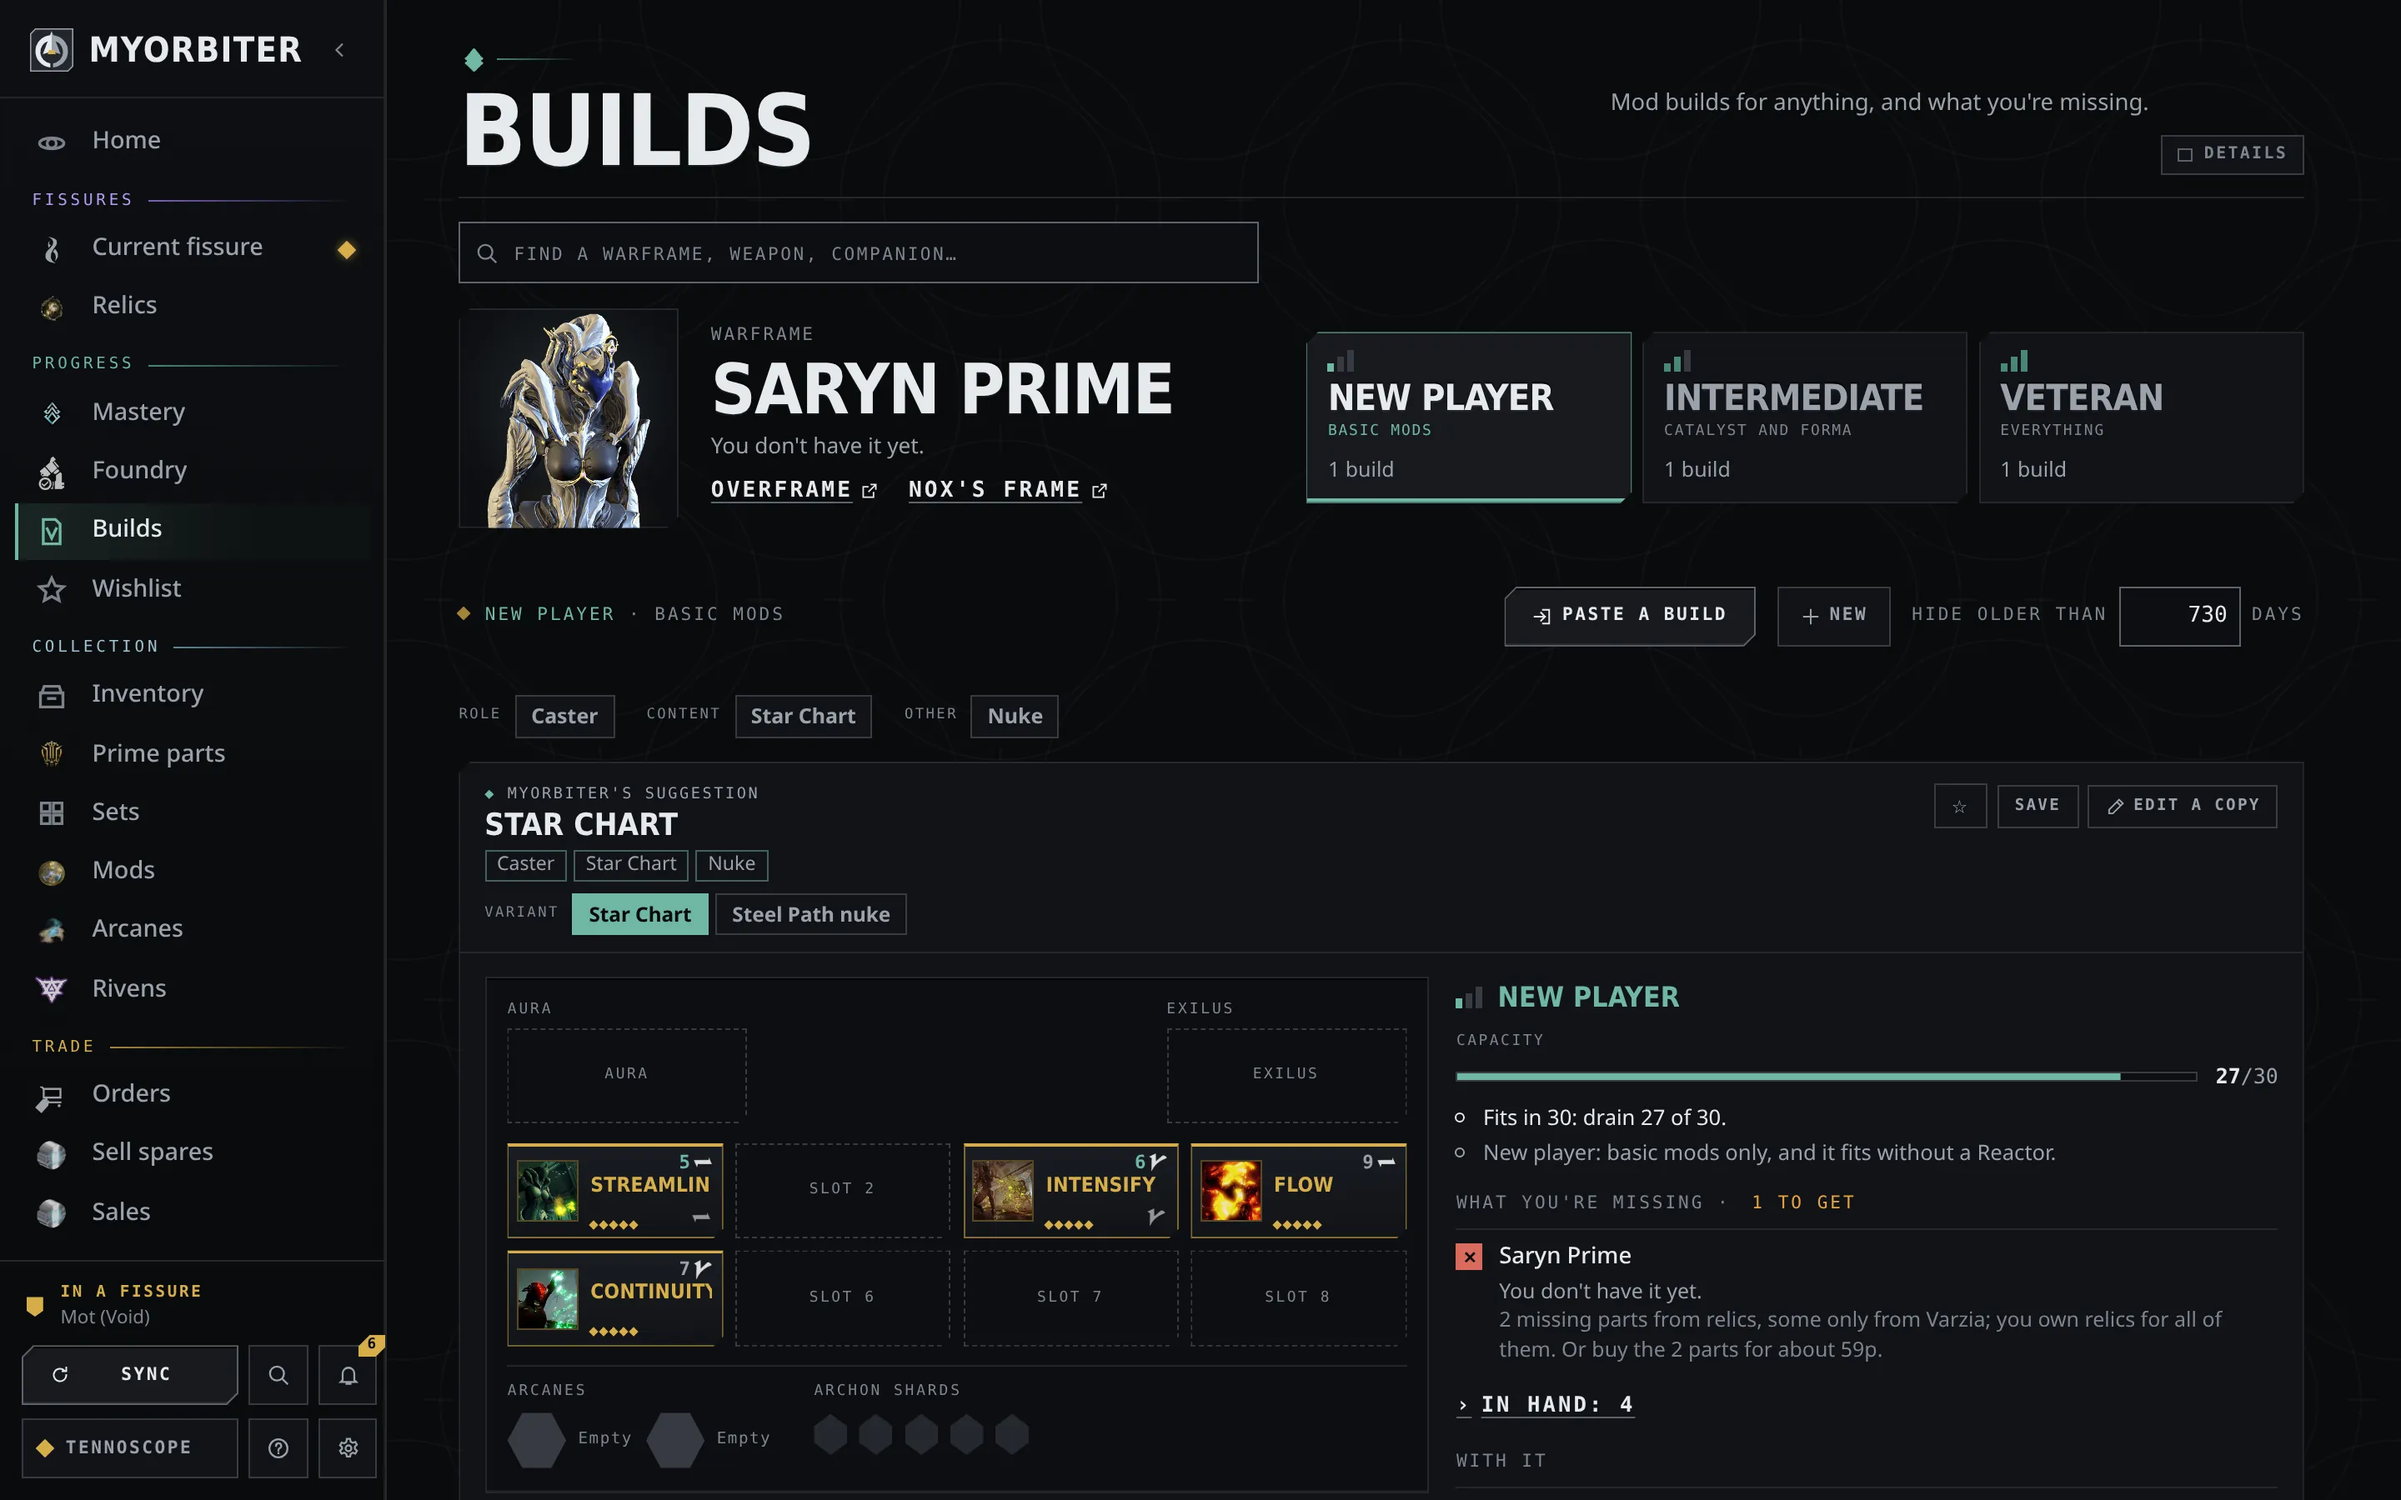
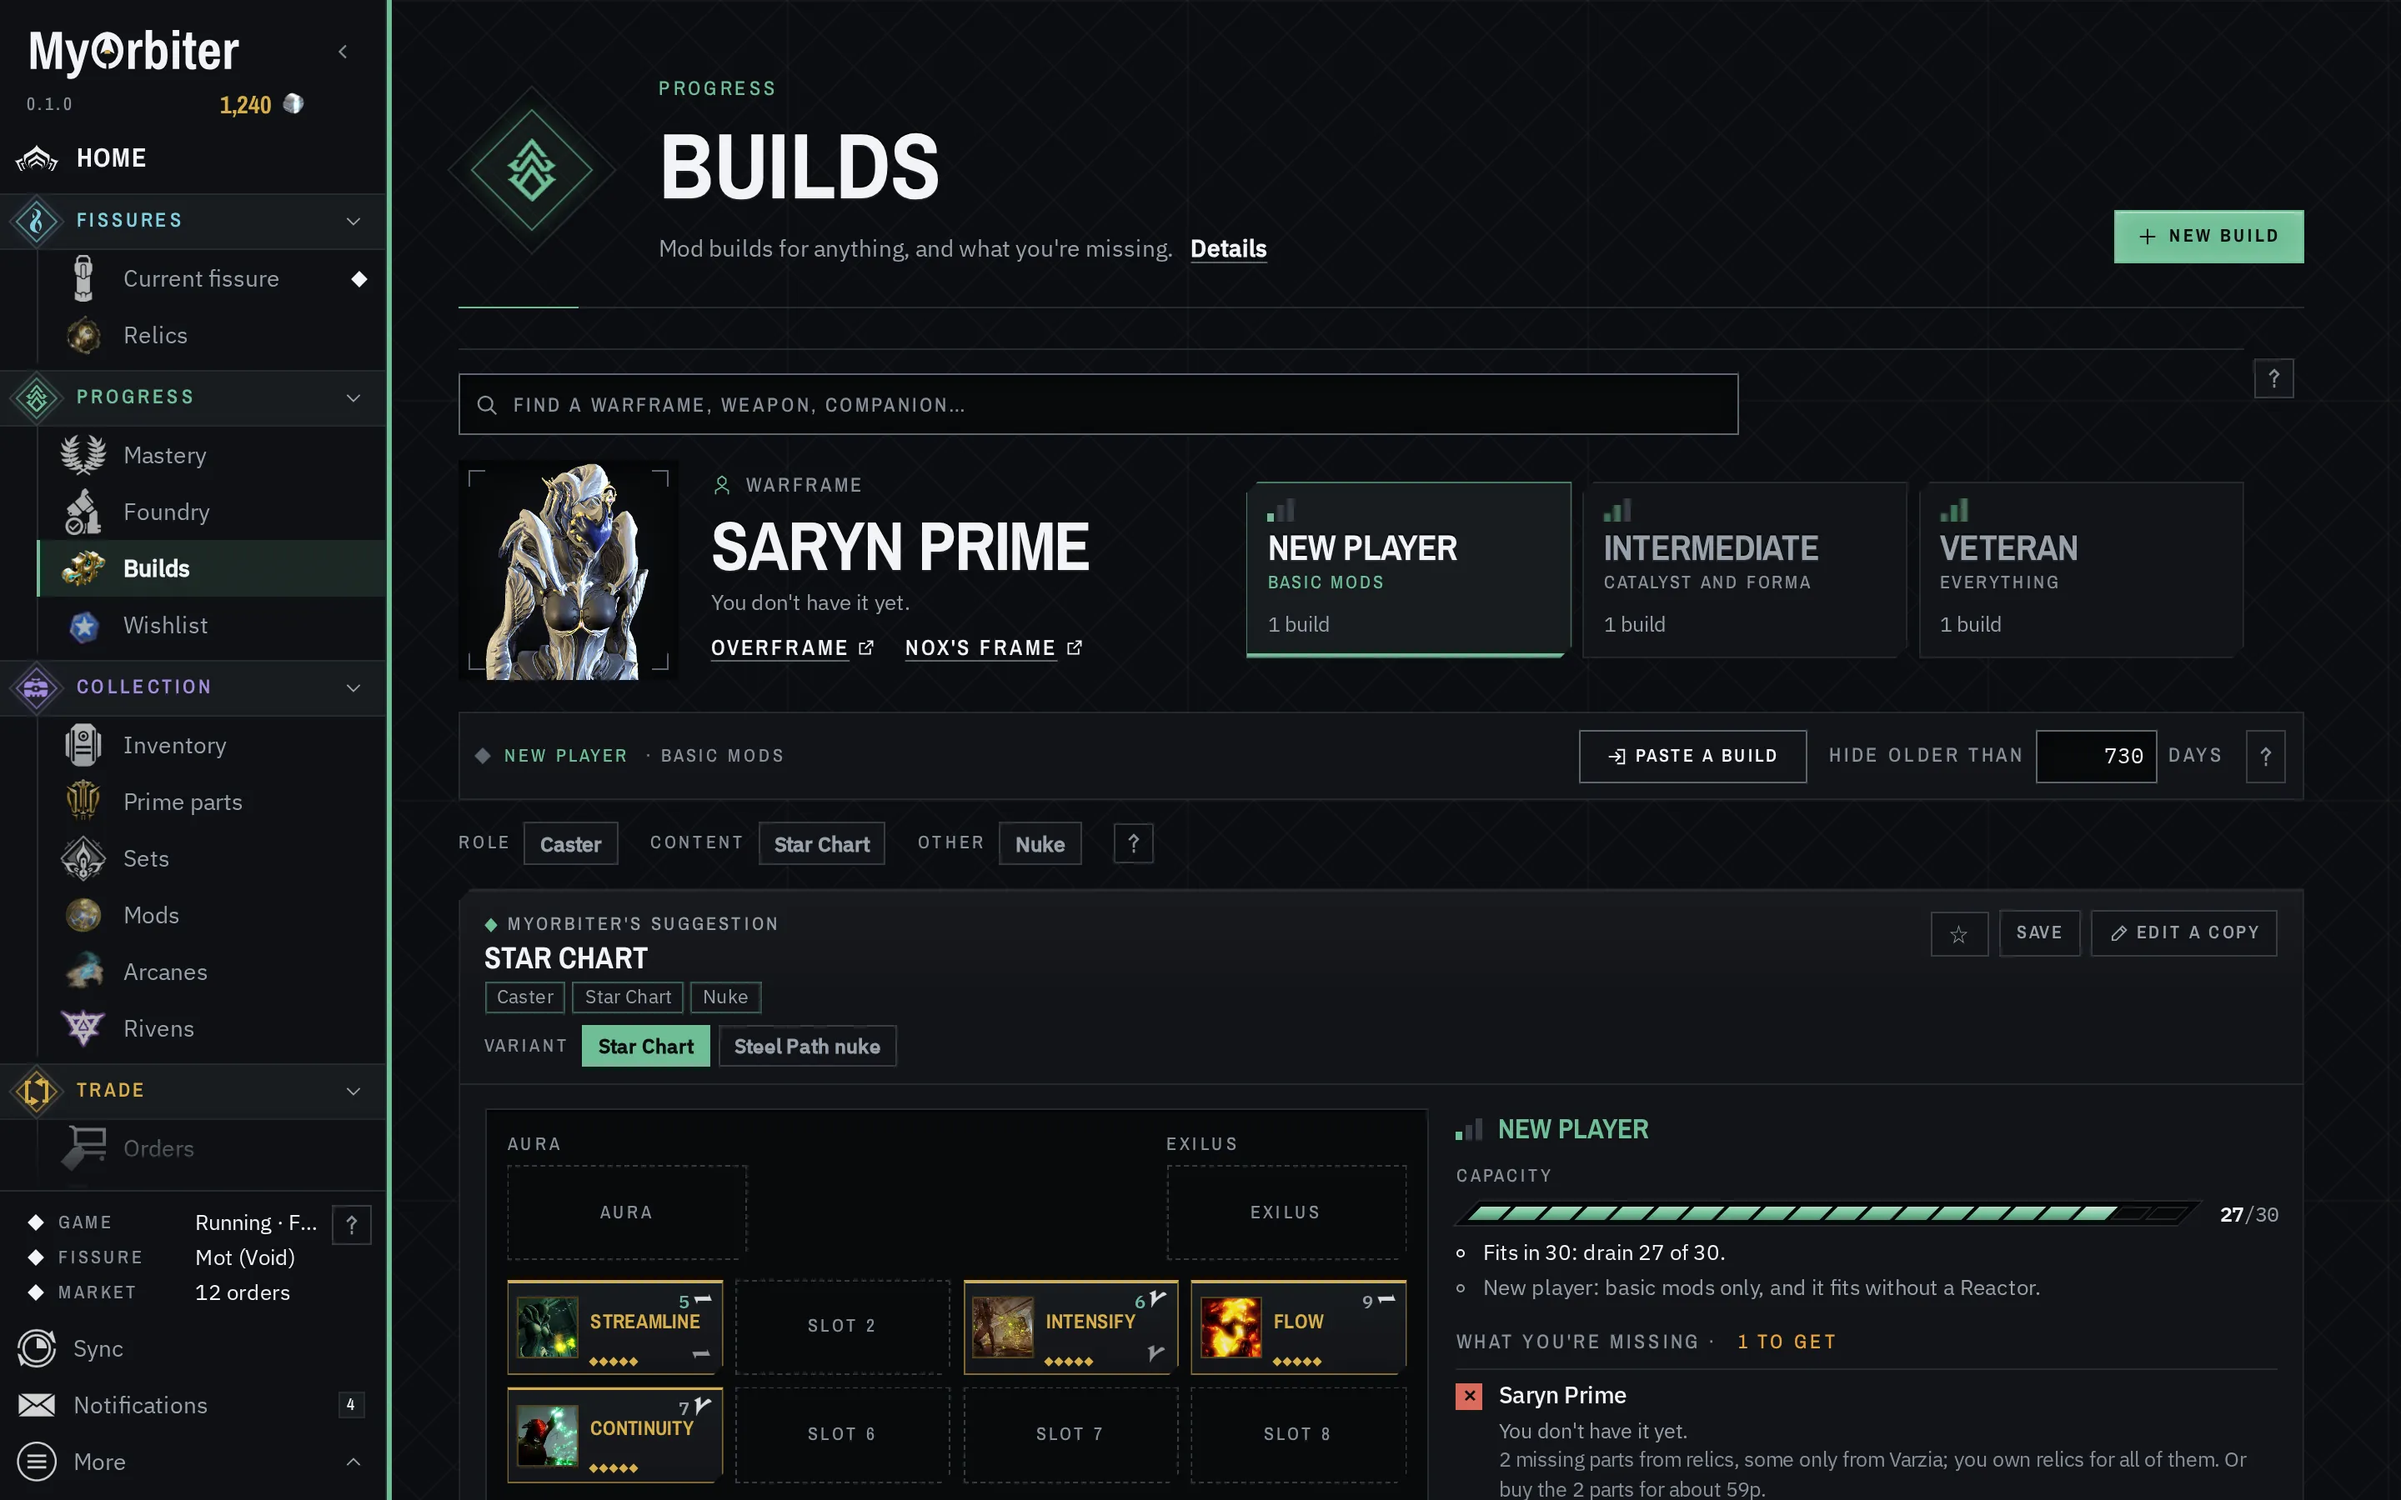
Sidebar: menu and sync fixes, retaken screenshots
The More menu gives the focus back to More before running an item, closes on
Esc wherever the focus is, keeps its items out of the Tab order and names
its menu only while open. A folded Sync shows its check or "!" in the
picture. The mission line icon stays, as missionIcon() falls back to it.
The status column is wide enough for "Inventory". The sweep visits the
menu and opens Settings through it; the perf scenarios find Sync in the
foot. Docs and site screenshots retaken with the new sidebar.

diff --git a/src/lib/ui/MoreMenu.svelte b/src/lib/ui/MoreMenu.svelte
@@ -80,8 +80,9 @@
       close(true);
     }
   }
+  // The focus goes back to More first, so closing what the item opened lands there again.
   function choose(it: MoreItem) {
-    close(false);
+    close(true);
     it.run();
   }
   // A click anywhere but the menu or its button closes it; so does the focus going elsewhere (a
@@ -93,10 +94,18 @@
       if (!menu?.contains(t) && !button?.contains(t)) close(false);
     };
     const resize = () => close(false);
+    // Esc closes it wherever the focus is (a click on More doesn't focus it everywhere).
+    const esc = (e: KeyboardEvent) => {
+      if (e.key !== "Escape" || menu?.contains(e.target as Node) || button?.contains(e.target as Node)) return;
+      e.preventDefault();
+      close(true);
+    };
+    window.addEventListener("keydown", esc);
     window.addEventListener("pointerdown", away, true);
     window.addEventListener("focusin", away, true);
     window.addEventListener("resize", resize);
     return () => {
+      window.removeEventListener("keydown", esc);
       window.removeEventListener("pointerdown", away, true);
       window.removeEventListener("focusin", away, true);
       window.removeEventListener("resize", resize);
@@ -109,13 +118,13 @@
   });
 </script>
 
-<button bind:this={button} type="button" class="tool more" class:on={open} aria-haspopup="menu" aria-expanded={open} aria-controls="more-{uid}" aria-label="More" title="More: search, help, report a bug, settings{items.some((i) => i.tone) ? ', TennoScope' : ''}" onclick={(e) => (open ? close(false) : show(e.detail === 0))} onkeydown={onButtonKey}>
+<button bind:this={button} type="button" class="tool more" class:on={open} aria-haspopup="menu" aria-expanded={open} aria-controls={open ? `more-${uid}` : undefined} aria-label="More" title="More: search, help, report a bug, settings{items.some((i) => i.tone) ? ', TennoScope' : ''}" onclick={(e) => (open ? close(false) : show(e.detail === 0))} onkeydown={onButtonKey}>
   <span class="ti"><GameIcon name="menu" size={24} even /></span><span class="lbl">More</span><span class="chv"><Icon name="chev-down" size={14} stroke={1.6} /></span>
 </button>
 {#if open}
   <div bind:this={menu} id="more-{uid}" class="moremenu" class:side={compact} role="menu" aria-label="More" tabindex="-1" style={place} onkeydown={onMenuKey}>
     {#each items as it (it.label)}
-      <button type="button" role="menuitem" class="mi" class:on={it.on} data-item={it.label} title={it.title} onclick={() => choose(it)}>
+      <button type="button" role="menuitem" tabindex="-1" class="mi" class:on={it.on} aria-current={it.on ? "page" : undefined} data-item={it.label} title={it.title} onclick={() => choose(it)}>
         {#if it.icon}<Icon name={it.icon} size={15} stroke={1.3} />{:else}<i class="tsd tone-{it.tone ?? 'off'}"></i>{/if}
         <span class="ml">{it.label}</span>
         {#if it.keys}<span class="k">{it.keys}</span>{/if}

diff --git a/src/App.svelte b/src/App.svelte
@@ -3190,7 +3190,7 @@
   .state { position: relative; display: grid; gap: 4px; min-width: 0; padding: 4px 36px 8px 18px; }
   .state :global(.helpmark.corner) { top: 2px; right: 8px; background: #0e1013; }
   .st { display: flex; align-items: center; gap: 10px; min-width: 0; font-size: 13px; line-height: 17px; }
-  .st .register { flex: none; width: 66px; font-size: 11px; }
+  .st .register { flex: none; width: 72px; font-size: 11px; }
   .st .v { min-width: 0; color: var(--platinum); white-space: nowrap; overflow: hidden; text-overflow: ellipsis; }
   .dia { width: 7px; height: 7px; flex: none; background: var(--platinum); transform: rotate(45deg); }
   .dia.hollow { background: none; box-shadow: inset 0 0 0 1px var(--platinum-dim); }
@@ -3211,7 +3211,6 @@
   .foot :global(.tool .lbl) { min-width: 0; white-space: nowrap; overflow: hidden; text-overflow: ellipsis; }
   /* Sync's state word at the far end, small: Reading…, Up to date, Not synced. */
   .foot :global(.sync .lbls.aside) { margin-left: auto; font-family: var(--face-register); font-size: 11px; letter-spacing: .1em; text-transform: uppercase; color: var(--platinum-deep); }
-  .foot :global(.sync.done), .foot :global(.sync.failed) { color: var(--platinum-dim); }
   .foot :global(.sync.done .lbls.aside) { color: var(--verdigris); }
   .foot :global(.sync.failed .lbls.aside) { color: var(--oxblood); }
   /* Why the last sync failed, under the button (it goes with the button's failed look). */

diff --git a/src/lib/ui/ProgressButton.svelte b/src/lib/ui/ProgressButton.svelte
@@ -160,7 +160,11 @@
       </span>
     {:else}
       {#if picture}
-        <span class="mark lead pic"><span class:turn={spin && st === "working"}><GameIcon name={picture} size={size} even /></span></span>
+        <span class="mark lead pic">
+          {#if st === "done"}<Icon name="check" size={Math.round(size * 0.7)} />
+          {:else if st === "failed"}<b class="bang">!</b>
+          {:else}<span class:turn={spin && st === "working"}><GameIcon name={picture} size={size} even /></span>{/if}
+        </span>
       {:else if icon}
         <span class="mark lead">
           {#if st === "done"}<Icon name="check" size={12} />

diff --git a/src/lib/ui/Icon.svelte b/src/lib/ui/Icon.svelte
@@ -2,6 +2,8 @@
   // One set of 16px line icons, drawn to sit together: square-cut, 1.3px strokes, Orokin
   // geometry (diamonds, hexagons, struck rings) rather than generic UI glyphs.
   const PATHS: Record<string, string> = {
+    // A void fissure: a diamond split down the middle by the rift (a mission type without its own glyph).
+    mission: "M8 1.2 14.8 8 8 14.8 1.2 8zM8.9 3.4 7.1 7.4 8.9 8.6 7.1 12.6",
     // A plan: a reticle over the relic's diamond.
     planner: "M8 1.5v3M8 11.5v3M1.5 8h3M11.5 8h3M8 4.8 11.2 8 8 11.2 4.8 8z",
     // Four parts that make a set.
